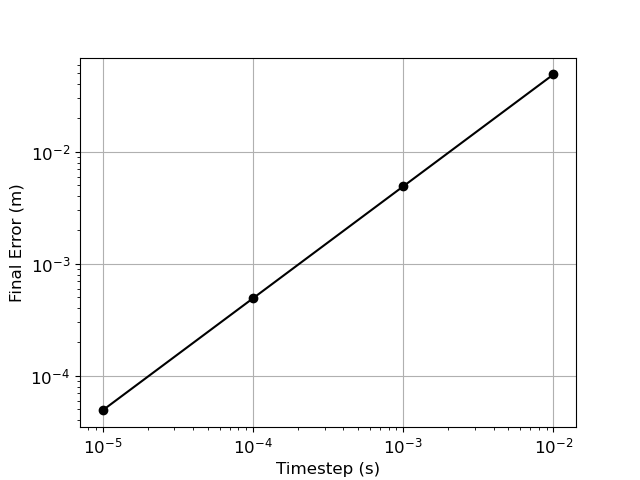
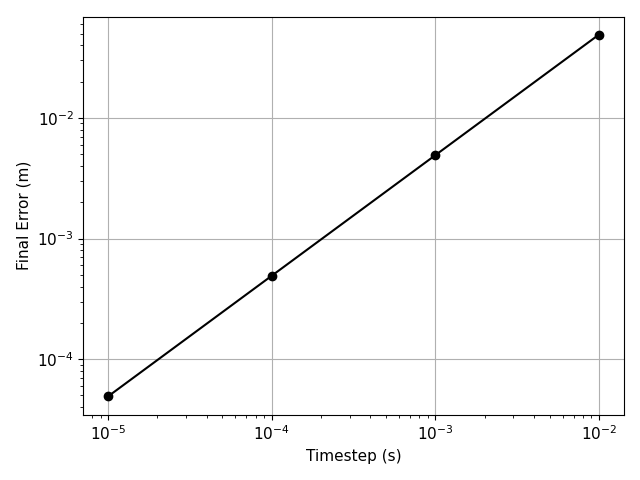
regenerated all plots including strong scaling speedup and efficiency

diff --git a/generate_plots.py b/generate_plots.py
@@ -2,10 +2,10 @@ import matplotlib.pyplot as plt
 import numpy as np
 import os
 
-plt.rcParams.update({'font.size': 12})
+plt.rcParams.update({'font.size': 11, 'figure.autolayout': True})
 
-def plot_all():
-    # 1 and 2- Free Fall Trajectory + Analytical
+def plot_verification():
+    # Free Fall
     if os.path.exists('results/test1_freefall.dat'):
         d = np.loadtxt('results/test1_freefall.dat')
         plt.figure()
@@ -13,8 +13,7 @@ def plot_all():
         plt.plot(d[:,0], d[:,2], 'r--', label='Analytical')
         plt.xlabel('Time (s)'); plt.ylabel('Z (m)'); plt.legend(); plt.grid()
         plt.savefig('plots/trajectory_comparison.png')
-
-    # 3: Error vsTimestep
+    # Error vs Timestep
     if os.path.exists('results/error_study.dat'):
         d = np.loadtxt('results/error_study.dat')
         plt.figure()
@@ -22,81 +21,40 @@ def plot_all():
         plt.xlabel('Timestep (s)'); plt.ylabel('Final Error (m)'); plt.grid()
         plt.savefig('plots/error_vs_dt.png')
 
-    # 4: Bouncing Height
-    if os.path.exists('results/test3_bounce.dat'):
-        d = np.loadtxt('results/test3_bounce.dat')
-        plt.figure()
-        plt.plot(d[:,0], d[:,1], 'g-')
-        plt.xlabel('Time (s)'); plt.ylabel('Height (m)'); plt.grid()
-        plt.savefig('plots/bouncing_height.png')
-
-    # 5: Kinetic Energy vs Time
-    if os.path.exists('results/ke_time.dat'):
-        d = np.loadtxt('results/ke_time.dat')
-        plt.figure()
-        plt.plot(d[:,0], d[:,1], 'r-')
-        plt.xlabel('Time (s)'); plt.ylabel('Kinetic Energy (J)'); plt.grid()
-        plt.savefig('plots/kinetic_energy.png')
-
-    # 6: Snapshot 
-    if os.path.exists('results/snap_005000.dat'):
-        d = np.loadtxt('results/snap_005000.dat')
-        plt.figure(figsize=(5,5))
-        plt.scatter(d[:,0], d[:,2], s=50, edgecolors='k', alpha=0.7)
-        plt.xlim(0,1); plt.ylim(0,1)
-        plt.xlabel('X (m)'); plt.ylabel('Z (m)'); plt.title('Particle Snapshot')
-        plt.savefig('plots/snapshot_final.png')
-
-if __name__ == "__main__":
-    plot_all()
-    print("All 6 required plots generated in /plots")
-def plot_parallel_scaling():
-    if not os.path.exists('results/parallel_scaling.dat'): return
-    data = np.loadtxt('results/parallel_scaling.dat')
-    threads = data[:, 0]
-    times = data[:, 1]
-    t1 = times[0]
-    speedup = t1 / times
-    efficiency = speedup / threads
-
-    plt.figure()
-    plt.plot(threads, speedup, 'bo-', label='Measured Speedup')
-    plt.plot(threads, threads, 'r--', label='Ideal Speedup')
-    plt.xlabel('Threads'); plt.ylabel('Speedup S(p)'); plt.legend(); plt.grid()
-    plt.savefig('plots/speedup.png')
-
-    plt.figure()
-    plt.plot(threads, efficiency, 'go-')
-    plt.xlabel('Threads'); plt.ylabel('Efficiency E(p)'); plt.ylim(0, 1.1); plt.grid()
-    plt.savefig('plots/efficiency.png')
 def plot_strong_scaling():
-    if not os.path.exists('results/strong_scaling.dat'): return
+    if not os.path.exists('results/strong_scaling.dat'): 
+        print("Missing strong_scaling.dat")
+        return
     data = np.loadtxt('results/strong_scaling.dat')
     p = data[:, 0]
     t_p = data[:, 1]
     t_1 = t_p[0]
-    
     speedup = t_1 / t_p
     efficiency = speedup / p
 
-    # Speedup Plot
     plt.figure()
     plt.plot(p, speedup, 'bo-', label='Measured Speedup')
     plt.plot(p, p, 'r--', label='Ideal Speedup')
-    plt.xlabel('Number of Threads (p)')
-    plt.ylabel('Speedup S(p)')
-    plt.title('Strong Scaling: Speedup')
-    plt.legend(); plt.grid()
+    plt.xlabel('Threads'); plt.ylabel('Speedup S(p)'); plt.legend(); plt.grid()
     plt.savefig('plots/strong_scaling_speedup.png')
 
-    # Efficiency Plot
     plt.figure()
-    plt.plot(p, efficiency, 'go-', label='Parallel Efficiency')
+    plt.plot(p, efficiency, 'go-')
     plt.axhline(y=1.0, color='r', linestyle='--')
-    plt.xlabel('Number of Threads (p)')
-    plt.ylabel('Efficiency E(p)')
-    plt.title('Strong Scaling: Efficiency')
-    plt.ylim(0, 1.1); plt.grid()
+    plt.xlabel('Threads'); plt.ylabel('Efficiency E(p)'); plt.ylim(0, 1.1); plt.grid()
     plt.savefig('plots/strong_scaling_efficiency.png')
 
+def scientific_plots():
+    if os.path.exists('results/study_damping.dat'):
+        data = np.loadtxt('results/study_damping.dat')
+        plt.figure()
+        plt.plot(data[:, 0], data[:, 1], 'm-')
+        plt.xlabel('Time (s)'); plt.ylabel('Height (m)'); plt.grid()
+        plt.savefig('plots/investigation_damping_height.png')
 
+if __name__ == "__main__":
+    if not os.path.exists('plots'): os.makedirs('plots')
+    plot_verification()
+    plot_strong_scaling()
+    scientific_plots()
+    print("All plots generated successfully.")
